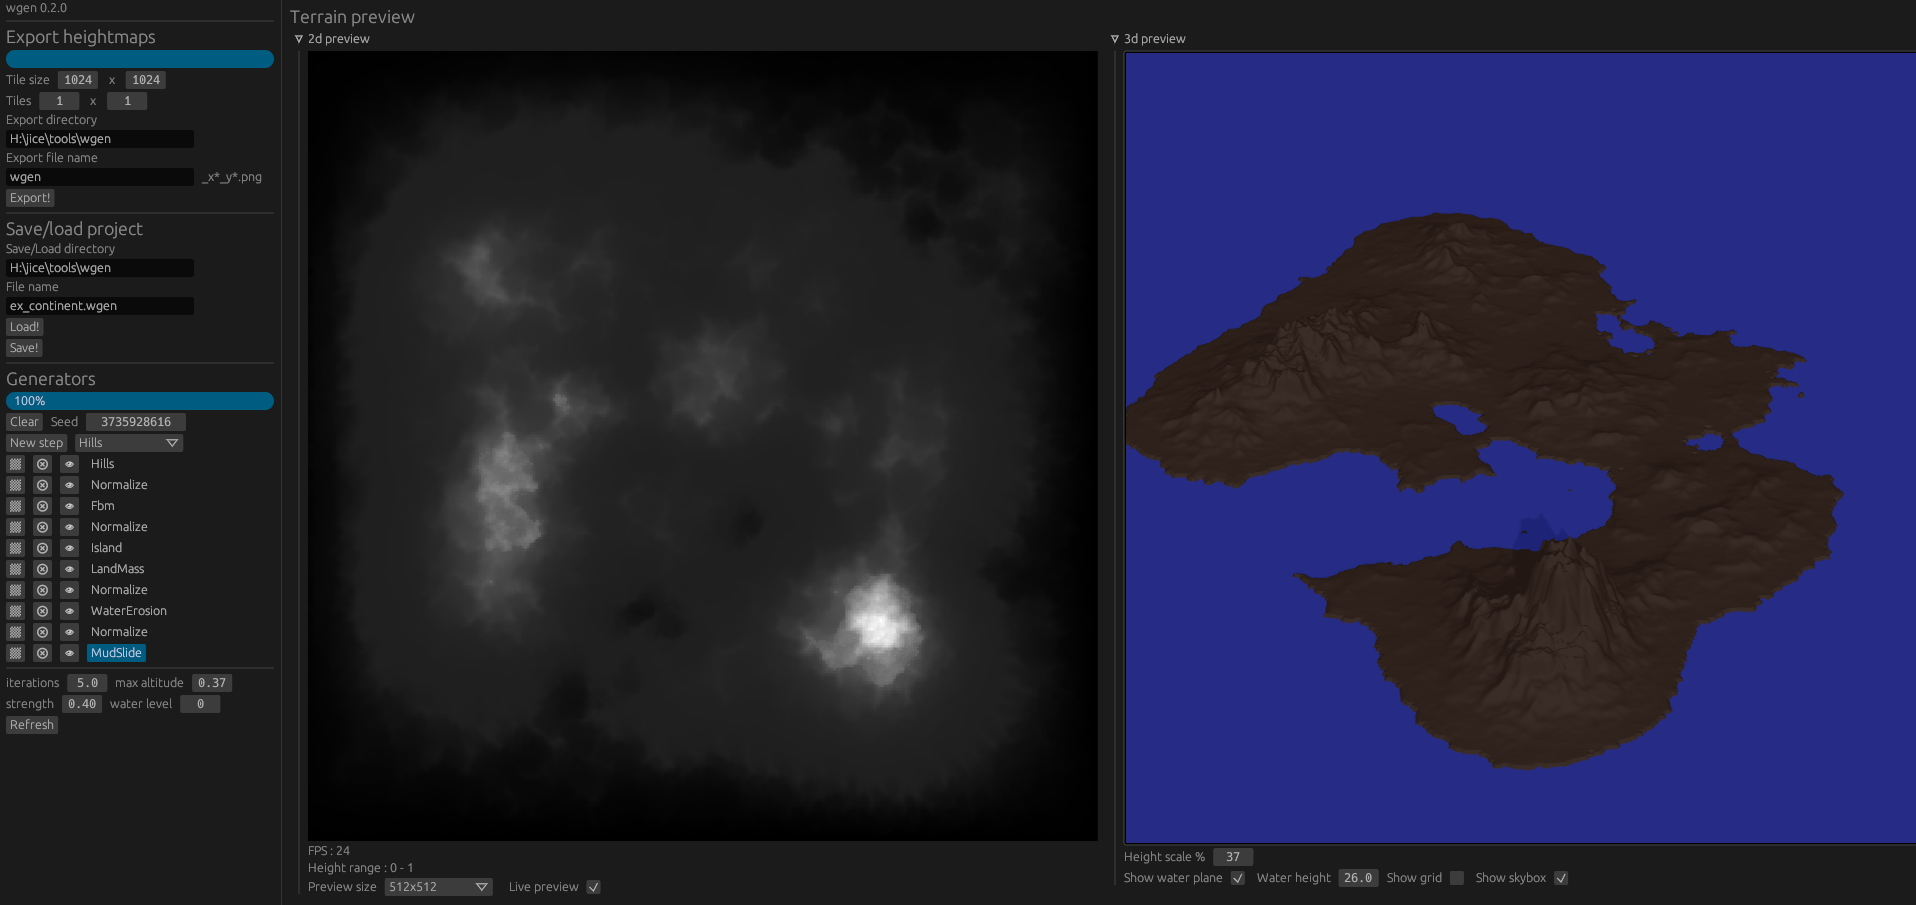
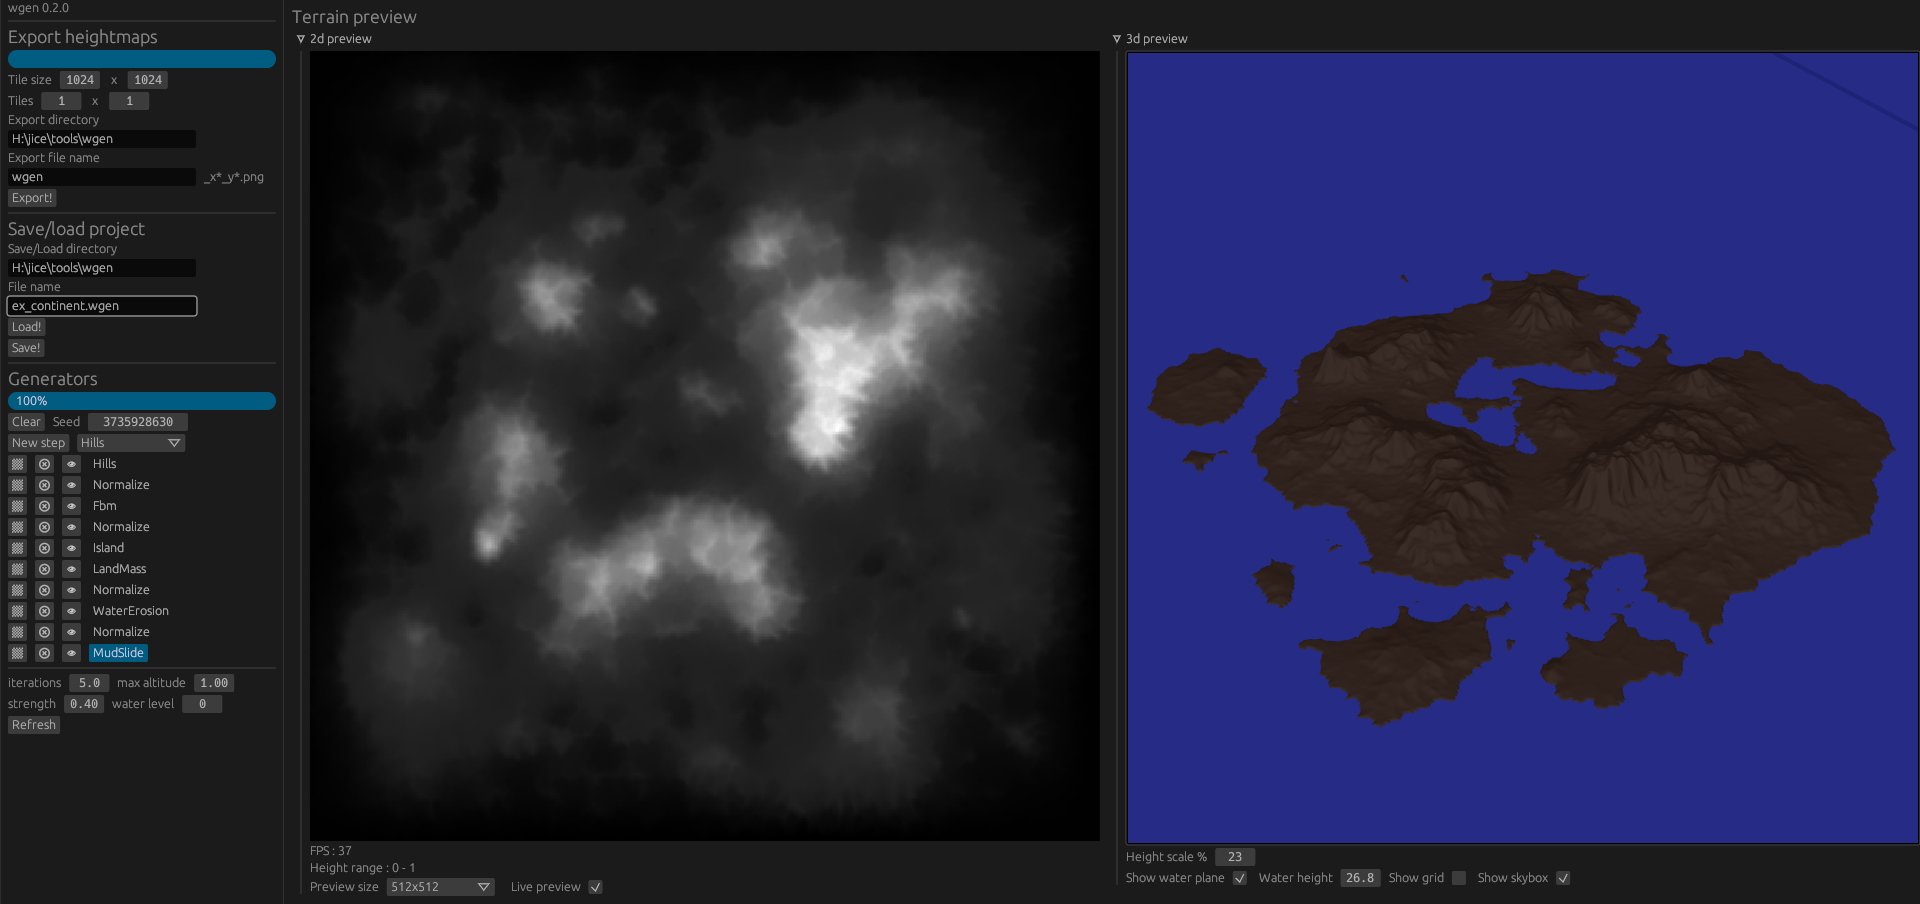
add plain factor parameter to landmass

diff --git a/src/main.rs b/src/main.rs
@@ -44,7 +44,12 @@ fn main() {
         depth_buffer: 24,
         ..Default::default()
     };
-    println!("wgen v{} - {} cpus", VERSION, num_cpus::get());
+    println!(
+        "wgen v{} - {} cpus {} cores",
+        VERSION,
+        num_cpus::get(),
+        num_cpus::get_physical()
+    );
     eframe::run_native("wgen", options, Box::new(|_cc| Box::new(MyApp::default())));
 }
 
@@ -184,8 +189,13 @@ impl MyApp {
                 ui.separator();
                 match self.load_save_panel.render(ui) {
                     Some(SaveLoadAction::Load) => {
-                        if let Err(msg) = self.gen_panel.load(&self.load_save_panel.get_file_path()) {
-                            let err_msg = format!("Error while reading project {} : {}", &self.load_save_panel.get_file_path(), msg);
+                        if let Err(msg) = self.gen_panel.load(&self.load_save_panel.get_file_path())
+                        {
+                            let err_msg = format!(
+                                "Error while reading project {} : {}",
+                                &self.load_save_panel.get_file_path(),
+                                msg
+                            );
                             println!("{}", err_msg);
                             self.err_msg = Some(err_msg);
                         } else {
@@ -194,8 +204,13 @@ impl MyApp {
                         }
                     }
                     Some(SaveLoadAction::Save) => {
-                        if let Err(msg) = self.gen_panel.save(&self.load_save_panel.get_file_path()){
-                            let err_msg = format!("Error while writing project {} : {}", &self.load_save_panel.get_file_path(), msg);
+                        if let Err(msg) = self.gen_panel.save(&self.load_save_panel.get_file_path())
+                        {
+                            let err_msg = format!(
+                                "Error while writing project {} : {}",
+                                &self.load_save_panel.get_file_path(),
+                                msg
+                            );
                             println!("{}", err_msg);
                             self.err_msg = Some(err_msg);
                         }
@@ -259,11 +274,12 @@ impl MyApp {
 impl eframe::App for MyApp {
     fn update(&mut self, ctx: &egui::Context, frame: &mut eframe::Frame) {
         let wsize = frame.info().window_info.size;
-        let new_size =((wsize.x -340.0 ) * 0.5) as usize;
+        let new_size = ((wsize.x - 340.0) * 0.5) as usize;
         if new_size != self.image_size {
             // handle window resizing
             self.image_size = new_size;
-            self.panel_2d.refresh(self.image_size, self.preview_size as u32, None);
+            self.panel_2d
+                .refresh(self.image_size, self.preview_size as u32, None);
             self.panel_3d = Panel3dView::new(self.image_size as f32);
             self.regen(false, 0);
         }
@@ -288,8 +304,11 @@ impl eframe::App for MyApp {
                 Ok(ThreadMessage::GeneratorStepDone(step, hmap)) => {
                     log(&format!("main<=GeneratorStepDone({})", step));
                     if let Some(ref hmap) = hmap {
-                        self.panel_2d
-                            .refresh(self.image_size, self.preview_size as u32, Some(hmap));
+                        self.panel_2d.refresh(
+                            self.image_size,
+                            self.preview_size as u32,
+                            Some(hmap),
+                        );
                     }
                     self.gen_panel.selected_step = step;
                     self.progress = (step + 1) as f32 / self.gen_panel.enabled_steps() as f32
@@ -329,7 +348,7 @@ impl eframe::App for MyApp {
                 }
                 Ok(ThreadMessage::ExporterDone(res)) => {
                     if let Err(msg) = res {
-                        let err_msg=format!("Error while exporting heightmap : {}", msg);
+                        let err_msg = format!("Error while exporting heightmap : {}", msg);
                         println!("{}", err_msg);
                         self.err_msg = Some(err_msg);
                     }
@@ -349,12 +368,16 @@ impl eframe::App for MyApp {
         self.render_central_panel(ctx);
         if let Some(ref err_msg) = self.err_msg {
             let mut open = true;
-            egui::Window::new("Error").resizable(false).collapsible(false).open(&mut open).show (ctx, |ui| {
-                ui.scope(|ui| {
-                    ui.visuals_mut().override_text_color = Some(egui::Color32::RED);
-                    ui.label(err_msg);
+            egui::Window::new("Error")
+                .resizable(false)
+                .collapsible(false)
+                .open(&mut open)
+                .show(ctx, |ui| {
+                    ui.scope(|ui| {
+                        ui.visuals_mut().override_text_color = Some(egui::Color32::RED);
+                        ui.label(err_msg);
+                    });
                 });
-            });
             if open == false {
                 self.err_msg = None;
             }

diff --git a/src/generators/fbm.rs b/src/generators/fbm.rs
@@ -91,30 +91,31 @@ pub fn gen_fbm(
     let num_threads = num_cpus::get();
     std::thread::scope(|s| {
         let size_per_job = size.1 / num_threads;
-        for (i,chunk) in hmap.chunks_mut(size_per_job * size.0).enumerate() {
-            let i=i;
+        for (i, chunk) in hmap.chunks_mut(size_per_job * size.0).enumerate() {
+            let i = i;
             let fbm = Fbm::new()
                 .set_seed(seed as u32)
                 .set_octaves(conf.octaves as usize);
-            let tx=tx.clone();
+            let tx = tx.clone();
             s.spawn(move || {
                 let yoffset = i * size_per_job;
-                let lasty = size_per_job.min(size.1-yoffset);
+                let lasty = size_per_job.min(size.1 - yoffset);
                 for y in 0..lasty {
                     let f1 = ((y + yoffset) as f32 * 512.0 / size.1 as f32 + conf.addy) * ycoef;
                     let mut offset = y * size.0;
                     for x in 0..size.0 {
                         let f0 = (x as f32 * 512.0 / size.0 as f32 + conf.addx) * xcoef;
-                        let value = conf.delta + fbm.get([f0 as f64, f1 as f64]) as f32 * conf.scale;
+                        let value =
+                            conf.delta + fbm.get([f0 as f64, f1 as f64]) as f32 * conf.scale;
                         chunk[offset] += value;
                         offset += 1;
                     }
-                    if i==0 {
+                    if i == 0 {
                         let new_progress = (y + 1) as f32 / size_per_job as f32;
                         if new_progress - progress >= min_progress_step {
                             progress = new_progress;
                             report_progress(progress, export, tx.clone())
-                        }                        
+                        }
                     }
                 }
             });

diff --git a/src/generators/landmass.rs b/src/generators/landmass.rs
@@ -11,6 +11,7 @@ use super::{normalize, report_progress};
 pub struct LandMassConf {
     pub land_proportion: f32,
     pub water_level: f32,
+    pub plain_factor: f32,
 }
 
 impl Default for LandMassConf {
@@ -18,6 +19,7 @@ impl Default for LandMassConf {
         Self {
             land_proportion: 0.6,
             water_level: 0.12,
+            plain_factor: 2.5,
         }
     }
 }
@@ -35,6 +37,14 @@ pub fn render_landmass(ui: &mut egui::Ui, conf: &mut LandMassConf) {
             egui::DragValue::new(&mut conf.water_level)
                 .speed(0.01)
                 .clamp_range(0.0..=1.0),
+        );
+    });
+    ui.horizontal(|ui| {
+        ui.label("plain factor");
+        ui.add(
+            egui::DragValue::new(&mut conf.plain_factor)
+                .speed(0.01)
+                .clamp_range(1.0..=4.0),
         );
     });
 }
@@ -91,14 +101,15 @@ pub fn gen_landmass(
             report_progress(progress, export, tx.clone());
         }
     }
-    // fix land/mountain ratio using x^3 curve above sea level
+    // fix land/mountain ratio using h^plain_factor curve above sea level
     for y in 0..size.1 {
         let yoff = y * size.0;
         for x in 0..size.0 {
             let mut h = hmap[x + yoff];
             if h >= conf.water_level {
                 let coef = (h - conf.water_level) / (1.0 - conf.water_level);
-                h = conf.water_level + coef * coef * coef * (1.0 - conf.water_level);
+                let coef = coef.powf(conf.plain_factor);
+                h = conf.water_level + coef * (1.0 - conf.water_level);
                 hmap[x + y * size.0] = h;
             }
         }

diff --git a/src/generators/water_erosion.rs b/src/generators/water_erosion.rs
@@ -149,8 +149,8 @@ pub fn gen_water_erosion(
     let drop_count = ((size.1 * 2) as f32 * conf.drop_amount) as usize;
     // compute erosion weight depending on radius
     let mut erosion_weight = 0.0;
-    for y in (-conf.radius) as i32..conf.radius as i32 {
-        for x in (-conf.radius) as i32..conf.radius as i32 {
+    for y in (-conf.radius).round() as i32..conf.radius.round() as i32 {
+        for x in (-conf.radius).round() as i32..conf.radius.round() as i32 {
             let dist = ((x * x + y * y) as f32).sqrt();
             if dist < conf.radius {
                 erosion_weight += conf.radius - dist;
